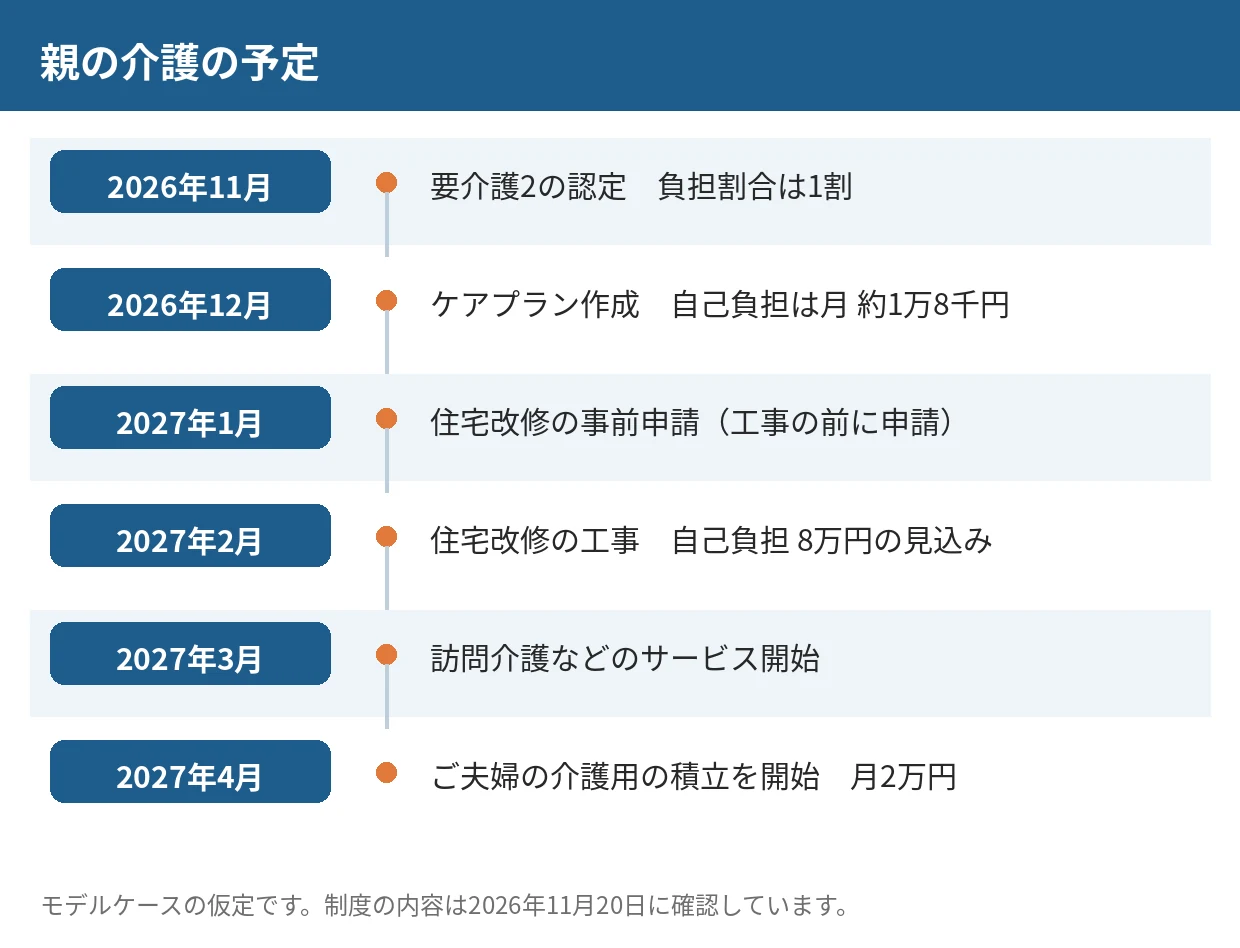
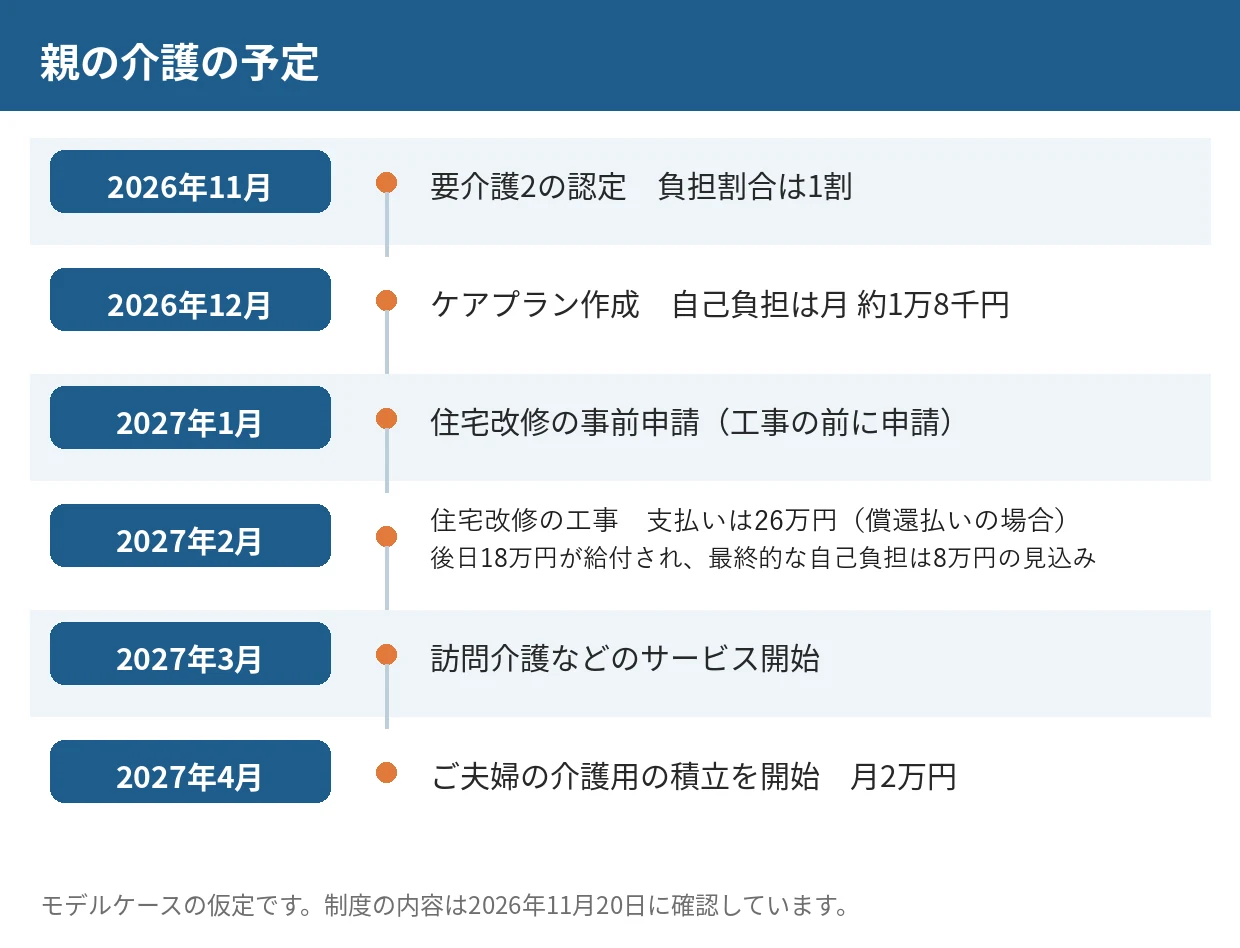
moneyinfo: 介護記事で住宅改修の最終自己負担と支払い時の立替額・給付時期を区別

Changed region(s): [[0.3371, 0.52, 0.8887, 0.6118]]

diff --git a/sites/moneyinfo/consult_articles.py b/sites/moneyinfo/consult_articles.py
@@ -34,8 +34,8 @@ META = (
     {
         "slug": "case-parent-care", "file": "parent-care.md", "image": "card-parent-care", "timeline": "timeline-parent-care",
         "theme": "親の介護", "household": "夫婦と親", "tag": "50代夫婦・親が要介護2",
-        "lead": "親が要介護2と認定されたとき、毎月の自己負担は約1万8千円、住宅改修の自己負担は8万円の見込みです。親御さんの家計と子世帯の家計を分ける考え方を、予定表と収支のリストで整理します。",
-        "amount": "毎月の自己負担約1万8千円。住宅改修は8万円",
+        "lead": "親が要介護2と認定されたとき、毎月の自己負担は約1万8千円、住宅改修は最終的な自己負担が8万円の見込みで、償還払いなら支払い時に26万円が必要です。親御さんの家計と子世帯の家計を分ける考え方を、予定表と収支のリストで整理します。",
+        "amount": "毎月の自己負担約1万8千円。住宅改修は最終8万円(支払い時は26万円)",
         "alt": "親の介護の予定表。2026年11月の認定から2027年4月の積立開始まで",
         "related": (("tools.html#annual", "年ごとの積立計画を作る"), ("basics-protection.html", "保険を選ぶ前に確認すること"),
                     ("events.html?event=care", "介護に必要なお金のテーマを見る")),

diff --git a/sites/moneyinfo/consult/parent-care.md b/sites/moneyinfo/consult/parent-care.md
@@ -56,7 +56,7 @@
 - 2026年11月　要介護2の認定。負担割合は1割です
 - 2026年12月　ケアプランの作成。介護サービスの自己負担は、月約1万8千円の案です
 - 2027年1月　住宅改修の事前申請。工事の前に、市区町村への申請が必要です
-- 2027年2月　住宅改修の工事。見積りは26万円で、自己負担は8万円の見込みです
+- 2027年2月　住宅改修の工事。見積りは26万円で、最終的な自己負担は8万円の見込みです。支払い方法によっては、支払いの時点で26万円が必要です
 - 2027年3月　訪問介護などのサービスの開始
 - 2027年4月　ご夫婦の介護用の積立を開始　月2万円
 
@@ -64,7 +64,9 @@
 
 介護保険のサービスを使ったときの自己負担は、費用の1割が原則で、一定以上の所得がある場合は2割または3割になります。お母さまは負担割合証で1割と決まっています。ケアプランの案では、訪問介護と通所介護を合わせたサービスの費用が月18万円ほどで、自己負担はその1割の約1万8千円です。
 
-住宅改修については、手すりの取付けや段差の解消などの対象工事に、介護保険から支給される仕組みがあります。支給の対象になる工事費には限度額があり、支給限度基準額は20万円です。お母さまの自己負担が1割の場合、20万円の工事費のうち18万円が支給され、自己負担は2万円になります。限度額を超えた分の工事費は、全額が自己負担です。工事の前に市区町村への事前申請が必要で、申請の前に着工すると支給の対象にならない場合があります。
+住宅改修については、手すりの取付けや段差の解消などの対象工事に、介護保険から支給される仕組みがあります。支給の対象になる工事費には限度額があり、支給限度基準額は20万円です。お母さまの自己負担が1割の場合、20万円の工事費のうち18万円が支給され、自己負担は2万円になります。限度額を超えた分の工事費は、全額が自己負担です。
+
+ここで、お金が出ていく時期と戻る時期を分けて考えます。多くの場合は、いったん工事費の全額を支払い、後日、申請した分が給付される償還払いです。このご家庭の例では、支払いの時点で26万円が必要で、後日18万円が給付されて、最終的な負担が8万円になります。給付は工事の後の申請や審査を経るため、入金は支払いより後になります。市区町村によっては、条件を満たすと、支払い時の負担を自己負担分だけにできる受領委任払いを使える場合があります。使えるかどうかは、お住まいの市区町村と施工する事業者によって異なります。工事の前に市区町村への事前申請が必要で、申請の前に着工すると支給の対象にならない場合があります。
 
 ## ご提案1　毎月の介護費用は、お母さまの年金の中で収める
 
@@ -76,7 +78,7 @@
 
 住宅改修の見積りは26万円です。内訳は、手すりの取付けが3か所で9万円、玄関と浴室の段差の解消が11万円、対象外の修繕が6万円です。
 
-介護保険の対象になる工事費は20万円までですので、支給は18万円、自己負担は対象分の2万円と、対象外の6万円を合わせた8万円になります。この8万円は、お母さまの預貯金350万円から出す形をご提案します。工事の内容はお母さまの住まいのためのものですので、費用もお母さまの資産から出すほうが、後の整理がしやすくなります。
+介護保険の対象になる工事費は20万円までですので、支給は18万円、最終的な自己負担は対象分の2万円と、対象外の6万円を合わせた8万円になります。償還払いの場合、支払いの時点では工事費の26万円をいったん用意し、後日18万円が戻ります。受領委任払いが使えると確認できた場合は、支払い時の負担は8万円です。どちらの場合も、用意する資金と最終的な負担を分けて、お母さまの預貯金350万円から出す形をご提案します。工事の内容はお母さまの住まいのためのものですので、費用もお母さまの資産から出すほうが、後の整理がしやすくなります。
 
 進め方で大切なのは順番です。まず担当のケアマネジャーに相談し、市区町村へ事前に申請して、支給の対象になる工事の範囲を確認してから着工します。
 
@@ -93,7 +95,7 @@
 ## このご家庭への結論
 
 - 毎月の介護サービスの自己負担は約1万8千円で、お母さまの年金の範囲に収まります。ご夫婦の負担は、訪問の交通費月8千円ほどです
-- 住宅改修の自己負担は8万円で、お母さまの預貯金から出す形にすると、ご夫婦の家計と老後の資金に影響しません
-- 次の一歩は、ケアマネジャーへの相談と、住宅改修の事前申請の確認です。あわせて、ご夫婦は来年4月から月2万円の介護用の積立を始めることです
+- 住宅改修の最終的な自己負担は8万円ですが、償還払いなら支払い時に26万円が必要です。お母さまの預貯金から出す形にすると、ご夫婦の家計と老後の資金に影響しません
+- 次の一歩は、ケアマネジャーへの相談と、住宅改修の事前申請、支払い方法（償還払いか受領委任払いか）の確認です。あわせて、ご夫婦は来年4月から月2万円の介護用の積立を始めることです
 
-（注記）この記事のご家庭と家計はモデルケースの仮定です。介護保険の自己負担の割合は、負担割合証で決まります。住宅改修の支給限度基準額は20万円で、対象になる工事の種類と手続きは、お住まいの市区町村によって案内が異なります。制度の内容は2026年11月20日に確認しています。
+（注記）この記事のご家庭と家計はモデルケースの仮定です。介護保険の自己負担の割合は、負担割合証で決まります。住宅改修の支給限度基準額は20万円で、給付の時期と支払い方法（償還払いか受領委任払いか）、対象になる工事の種類と手続きは、お住まいの市区町村によって案内が異なります。制度の内容は2026年11月20日に確認しています。
